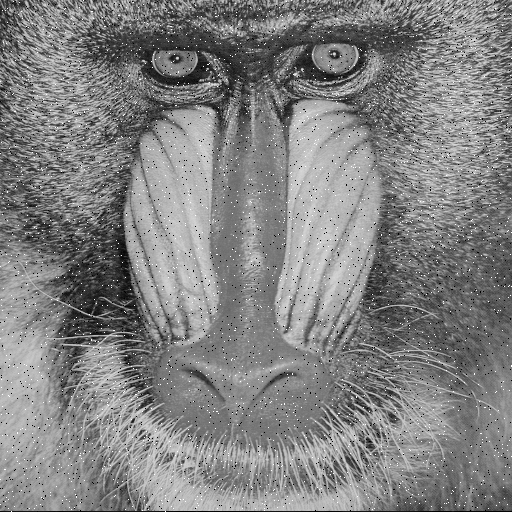
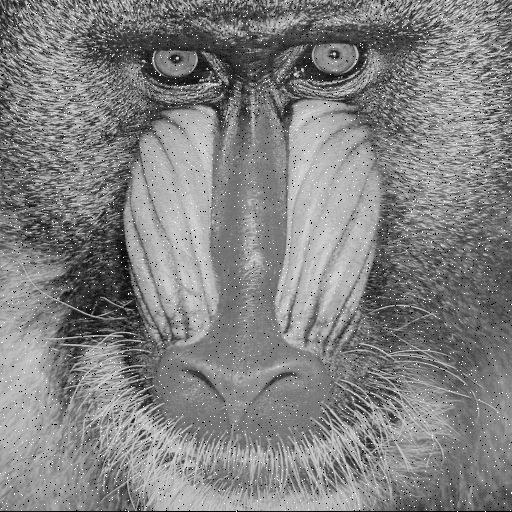
falta idft

diff --git a/main_smoothfilters.m b/main_smoothfilters.m
@@ -10,20 +10,10 @@ switch dominioFiltro
     otherwise
         error(strcat(('Domínio de filtro inválido. Opções: '),('spatial, frequency')));
 end
-figure
+compare_dft(imagem,noise)
 
 end
 
-%{
-         switch tipoSmoothing
-             case 'butterworth'
-                 h = butterworthFilter(paramFiltro(1),paramFiltro(2),paramFiltro(3));
-             case 'gaussian'
-                 h = fspecial('gaussian',paramFiltro(1),paramFiltro(2));
-          otherwise
-            error(strcat(('Tipo de smoothing inválido. Opções: '),('butterworth, gaussian')));
-         end
-         %}
 %%%%%%%%%%%%%%%%%%%%%%%%%%%%%%%%%%%%%%%%%%%%%%%
 
 %aplicar ruido a imagem
@@ -64,29 +54,75 @@ function[smooth] = filtroSpatial(noise,tipoSmoothing,paramFiltro)
 
 end
 
-%{
-function[] = dft(imagem)
-
-
+function resultado = idft(imagem, paramFiltro)
+    imgsemDFT = ifft2(imagem); %aplicar DFT
+    
+    
+    imreal = abs(imgsemDFT);
+    
+    for i=1:(size(imagem)/2)
+        for j=1:(size(imagem)/2)
+            resultado(i,j)= imreal(i,j);
+        end
+    end
+    
+    resultado = uint8(resultado);
+    
 end
 
-function[] = compare_dft(imagem)
-
-
+function [imgDFTCentrada,resultado] = dft(imagem, paramFiltro)
+    size = paramFiltro(1)./2; %metade do tamanho do kernel
+    padding = padarray(imagem,[size size],0,'both');
+    imgComDFT = abs(fft2(padding)); %aplicar DFT
+    imgDFTCentrada = fftshift(imgComDFT);
+    resultado = mat2gray(imgDFTCentrada)*255;
 end
-%}
+
+function[] = compare_dft(imagem,noise)
+    figure;
+    subplot(3,2,1),imshow(imagem);
+    [A,B] = dft(imagem,512);
+    subplot(3,2,2),imshow(B);
+    [C,D] = dft(noise,512);
+    subplot(3,2,3),imshow(noise);
+    subplot(3,2,4),imshow(D);
+    subplot(3,2,5),imshow(imagem);
+    subplot(3,2,6),imshow(idft(A,512));
+end
 
 function[smooth] = filtroFrequency(imagem,noise,tipoSmoothing,paramFiltro)
   
 
     switch tipoSmoothing
         case 'gaussian'     
-            smooth = fspecial('gaussian',paramFiltro(1),paramFiltro(2));
+            % criar o filtro
+            h = fspecial('gaussian',paramFiltro(1),paramFiltro(2));
         case 'butterworth'
-            smooth = butterworthFilter(paramFiltro(1),paramFiltro(2),paramFiltro(3));
+            h = butterworth(paramFiltro(1),paramFiltro(2),paramFiltro(3));
         otherwise
-            error(strcat(('Tipo de smoothing inválido. Opções: '),('average, gaussian, median')));
+            error(strcat(('Tipo de smoothing inválido. Opções: '),('average, gaussian, median')));      
     end   
-
+    
+    [h, etc] = dft(h, 2*size(imagem)-size(h));
+    [f, etc] = dft(imagem, size(imagem));
+    g = h .* f;
+    figure; imshow(mat2gray(g)*255);
+    smooth = idft(g,size(imagem));
 end
 
+function h = butterworth(size,n,d0)
+    h = zeros(size, size);
+    m = (size + 1)/2;
+    t = 0;
+    for u = 1:size
+        for v = 1:size
+            x = u - m;
+            y = v - m;
+            d = sqrt(x.^2 + y.^2);
+            a = 1./(1 + (d / d0).^(2 .* n));
+            h(u, v) = a;
+            t = t + a;
+        end
+    end
+    h = h ./ t;
+end

diff --git a/smoothfilters.m b/smoothfilters.m
@@ -2,19 +2,20 @@ original = 'baboon';
 ficheiro = 'baboon.png';
 
 ruido = 'salt & pepper';
-paramRuido = [0.02,0.02];
+paramRuido = [0.2,0.02];
 %Para salt & pepper usar o primeiro valor
 %para gaussian 1º valor para a média e o 2º para a variância
 
-dominioFiltro = 'spatial';
-tipoSmoothing = 'median';
-paramFiltro = [100,100,0];
+dominioFiltro = 'frequency';
+tipoSmoothing = 'butterworth';
+paramFiltro = [512,2,10];
 %Para dominioFiltro spacial:
 %average - Usado apenas o primeiro valores para definir o tamanho da matriz
 %gaussian - Usado o primeiro valor para o tamanho da matriz, e o segundo valor para o sigma
 %median - Usado o primeiro valor para o numero de colunas da matriz e o segundo para as linhas
 %Para frequencia:
-
+%gaussian - Usado o primeiro valor para o tamanho da matriz, e o segundo valor para o sigma
+%butterworth - Primeiro valor para o tamanho , segundo para o n e o 3º para o D0
 
 
 %%%%%%%%%%%%%%%%%%%%%%%%
@@ -35,6 +36,13 @@ switch dominioFiltro
                 output = strcat(original,'_',dominioFiltro,'_',tipoSmoothing,'_',num2str(paramFiltro(1)),'_',num2str(paramFiltro(2)),'.png');
         end
     case 'frequency'
+        switch tipoSmoothing
+            case 'gaussian'
+                output = strcat(original,'_',dominioFiltro,'_',tipoSmoothing,'_',num2str(paramFiltro(1)),'_',num2str(paramFiltro(2)),'.png');
+            case 'butterworth'
+                output = strcat(original,'_',dominioFiltro,'_',tipoSmoothing,'_',num2str(paramFiltro(1)),'_',num2str(paramFiltro(2)),'_',num2str(paramFiltro(3)),'.png');
+        end
+        
 end
   
 imwrite(smooth,output);
